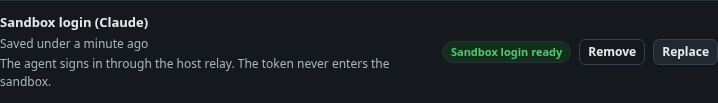
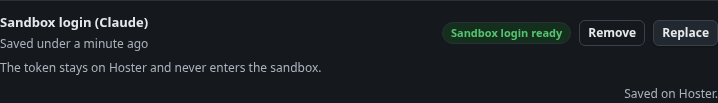
Review round (608a962..7696646): token field no longer a password-manager target, disabled Terminal tab unreachable by keys, one guard set per terminal, full token scan, Settings layout, mount race
U1: the setup-token field is a text input masked with -webkit-text-security (inline and in CSS),
autocomplete=off and the 1Password, LastPass, Bitwarden and form-type ignore attributes; type=password
with autocomplete=one-time-code only where the property is unsupported (Firefox 158 supports it).
U2: selectTab refuses the Terminal tab outside a finding folder; arrow keys skip it.
U3: makeTerm registers every listener with one AbortController, aborted in dispose.
U4: one tokenCapture helper scans request and response bodies and headers, console, page errors,
DOM, field values, storage and the URL, after Save, Replace and Remove.
U5: login pill in the row's controls, one-line hints, full-width note, toasts dismissed before shots;
screenshots regenerated.
Mount race: no shell attach until /api/mount answered for the current report; status reset on a
report change. Queued Play predates the branch (BUGFIXES.md).

diff --git a/static/modules/report-agent.js b/static/modules/report-agent.js
@@ -30,7 +30,8 @@
   const STATUS_TONE = {working: 'accent', blocked: 'warning', idle: '', done: 'success'};
   const NEEDS_LOGIN = 'Needs a sandbox login on Hoster';
   // Deploy step 1 of docs/integrations/report-agent.md, as one plain line.
-  const LOGIN_HINT = 'On Hoster, run claude setup-token, then save only the printed token in ~/.config/bounty-board/report-agent.token (mode 0600, outside the data root).';
+  const LOGIN_HINT = 'Run claude setup-token on Hoster and save the token in ~/.config/bounty-board/report-agent.token (0600).';
+  const LOGIN_HELP = "Run claude setup-token on Hoster and paste the token here. It is stored on Hoster only, readable by the Board's user.";
   const UNSAFE_TEXT = 'The text contains control or invisible characters. Remove them and try again.';
   const CONNECT_COPY = 'These are the agents\' real sessions on Hoster, outside any sandbox. What you type goes straight to the agent.';
 
@@ -709,7 +710,7 @@
         const save = h('button', {type: 'button', className: 'button sm primary', dataset: {agentSave: ''}, disabled: state.saving || !dirty || model === null, onclick: saveSettings}, state.saving ? 'Saving' : 'Save');
         parts.push(h('div', {className: 'set-row ra-set-row'},
           h('div', {className: 'set-text'}, h('span', {className: 'set-label', text: 'CLI and model'}),
-            h('p', {className: 'hint', text: 'Used for every report agent. Saved on the terminal service, so it applies on every device.'})),
+            h('p', {className: 'hint', text: 'Saved on Hoster, for every device.'})),
           h('div', {className: 'set-controls ra-set-controls'}, modelFields(state, quiet => { state.message = ''; if (quiet) paintSave(); else paint(); }, 'set-agent'), save)));
         parts.push(h('p', {className: `hint ra-set-msg${state.tone ? ` ${state.tone}` : ''}`, dataset: {agentSettingsMsg: ''}, role: 'status', 'aria-live': 'polite',
           text: state.message || (model === null ? 'Custom model ids use lowercase letters, digits, dots and dashes.' : '')}));
@@ -718,7 +719,7 @@
       const connectOn = status ? !!status.agent_connect : null;
       parts.push(h('div', {className: 'set-row'},
         h('div', {className: 'set-text'}, h('span', {className: 'set-label', text: connectOn === null ? 'Connect to running agents: unknown' : `Connect to running agents: ${connectOn ? 'on' : 'off'}`, dataset: {agentConnectFlag: connectOn === null ? 'unknown' : connectOn ? 'on' : 'off'}}),
-          h('p', {className: 'hint', text: 'A terminal service setting (--agent-connect), not changed here. When on, the Agent button lists agents running on Hoster.'}))));
+          h('p', {className: 'hint', text: 'Set by the --agent-connect service flag.'}))));
       host.replaceChildren(...parts);
     };
     // "Sandbox login (Claude)": saved on Hoster through POST /api/agent/login. The token
@@ -727,37 +728,52 @@
       const login = config.login || {};
       const pill = h('span', {className: `badge ${login.ready ? 'success' : 'warning'}`, dataset: {agentLogin: login.ready ? 'ready' : 'missing'},
         text: login.ready ? 'Sandbox login ready' : 'No sandbox login on Hoster yet'});
+      // Layout: label (and a short status line) left, pill and buttons right, like the other rows;
+      // the explanation is one full-width line under the row.
+      const row = (left, controls, note) => [
+        h('div', {className: 'set-row ra-login-row', dataset: {agentLoginRow: ''}},
+          h('div', {className: 'set-text'}, left), h('div', {className: 'set-controls ra-login-controls'}, controls)),
+        note];
       if (!login.editable) {
-        return [h('div', {className: 'set-row'},
-          h('div', {className: 'set-text'}, h('span', {className: 'set-label', text: 'Sandbox login'}),
-            login.ready ? h('p', {className: 'hint', text: 'The agent signs in through the host relay. The token never enters the sandbox.'}) : h('p', {className: 'hint', dataset: {agentLoginHint: ''}, text: LOGIN_HINT})),
-          pill)];
+        return [h('div', {className: 'ra-login', dataset: {agentLoginBlock: ''}}, ...row([h('span', {className: 'set-label', text: 'Sandbox login'})], [pill],
+          h('p', {className: 'hint ra-login-note', dataset: login.ready ? {} : {agentLoginHint: ''},
+            text: login.ready ? 'The token stays on Hoster and never enters the sandbox.' : LOGIN_HINT})))];
       }
-      const text = [h('span', {className: 'set-label', text: 'Sandbox login (Claude)'})];
-      let controls;
+      const left = [h('span', {className: 'set-label', text: 'Sandbox login (Claude)'})];
+      let controls, note;
       if (login.ready && !state.replacing) {
-        if (login.saved_at) text.push(h('p', {className: 'hint', dataset: {agentLoginSaved: ''}, text: `Saved ${ago(login.saved_at)}`}));
-        text.push(h('p', {className: 'hint', text: 'The agent signs in through the host relay. The token never enters the sandbox.'}));
+        if (login.saved_at) left.push(h('p', {className: 'hint', dataset: {agentLoginSaved: ''}, text: `Saved ${ago(login.saved_at)}`}));
+        note = h('p', {className: 'hint ra-login-note', text: 'The token stays on Hoster and never enters the sandbox.'});
         controls = [pill,
           h('button', {type: 'button', className: 'button sm subtle', dataset: {agentLoginAction: 'remove'}, disabled: state.loginBusy, onclick: removeLogin}, 'Remove'),
           h('button', {type: 'button', className: 'button sm', dataset: {agentLoginAction: 'replace'}, disabled: state.loginBusy,
             onclick: () => { state.replacing = true; state.loginMsg = ''; paint(); host.querySelector('input[name="set-agent-token"]')?.focus(); }}, 'Replace')];
       } else {
-        if (!state.replacing) text.push(h('div', {className: 'ra-login-status'}, pill));
-        text.push(h('p', {className: 'hint', dataset: {agentLoginHelp: ''}, text: 'Run claude setup-token on Hoster and paste the token here. It is stored on Hoster only, readable by the Board\'s user.'}));
-        const input = h('input', {type: 'password', name: 'set-agent-token', className: 'ra-token', autocomplete: 'off', spellcheck: 'false',
-          autocapitalize: 'off', placeholder: 'sk-ant-oat...', 'aria-label': 'Claude setup token', disabled: state.loginBusy,
-          onkeydown: event => { if (event.key === 'Enter') { event.preventDefault(); saveLogin(); } }});
-        input.spellcheck = false;
+        note = h('p', {className: 'hint ra-login-note', dataset: {agentLoginHelp: ''}, text: LOGIN_HELP});
         controls = [
-          state.replacing ? h('button', {type: 'button', className: 'button sm ghost', dataset: {agentLoginAction: 'cancel'}, onclick: () => { state.replacing = false; state.loginMsg = ''; paint(); }}, 'Cancel') : null,
-          input,
+          state.replacing ? h('button', {type: 'button', className: 'button sm ghost', dataset: {agentLoginAction: 'cancel'}, onclick: () => { state.replacing = false; state.loginMsg = ''; paint(); }}, 'Cancel') : pill,
+          tokenInput(),
           h('button', {type: 'button', className: 'button sm primary', dataset: {agentLoginAction: 'save'}, disabled: state.loginBusy, onclick: saveLogin}, state.loginBusy ? 'Saving' : 'Save')];
       }
       const problem = !login.ready && login.reason && login.reason !== 'missing' ? login.message : '';
-      return [h('div', {className: 'set-row ra-login-row', dataset: {agentLoginRow: ''}},
-        h('div', {className: 'set-text'}, text), h('div', {className: 'set-controls ra-login-controls'}, controls)),
-      h('p', {className: `hint ra-set-msg${state.loginTone ? ` ${state.loginTone}` : ''}`, dataset: {agentLoginMsg: ''}, role: 'status', 'aria-live': 'polite', text: state.loginMsg || problem || ''})];
+      return [h('div', {className: 'ra-login', dataset: {agentLoginBlock: ''}}, ...row(left, controls, note),
+        h('p', {className: `hint ra-set-msg${state.loginTone ? ` ${state.loginTone}` : ''}`, dataset: {agentLoginMsg: ''}, role: 'status', 'aria-live': 'polite', text: state.loginMsg || problem || ''}))];
+    }
+    // The token field (review U1). A formless <input type=password> that disappears after a fetch is
+    // what Chrome's password manager offers to save (it ignores autocomplete=off there), so the field
+    // is a text input masked by CSS, with every password manager's ignore attribute. Chromium, Safari
+    // and Firefox (checked: Firefox 158) support -webkit-text-security; where a browser does not, the
+    // value must still be hidden, so it falls back to type=password with autocomplete=one-time-code.
+    function tokenInput() {
+      const masked = !!window.CSS?.supports?.('-webkit-text-security', 'disc');
+      const input = h('input', {type: masked ? 'text' : 'password', name: 'set-agent-token', className: 'ra-token',
+        autocomplete: masked ? 'off' : 'one-time-code', spellcheck: 'false', autocapitalize: 'off', autocorrect: 'off',
+        'data-1p-ignore': '', 'data-lpignore': 'true', 'data-bwignore': '', 'data-form-type': 'other',
+        placeholder: 'sk-ant-oat...', 'aria-label': 'Claude setup token', disabled: state.loginBusy,
+        onkeydown: event => { if (event.key === 'Enter') { event.preventDefault(); saveLogin(); } }});
+      input.spellcheck = false;
+      if (masked) input.style.setProperty('-webkit-text-security', 'disc');   // masked even before the stylesheet applies
+      return input;
     }
     async function saveLogin() {
       const input = host.querySelector('input[name="set-agent-token"]');

diff --git a/static/modules/sandbox-terminal.js b/static/modules/sandbox-terminal.js
@@ -30,6 +30,10 @@
   // Result of /api/mount for this report: null while unknown (then the button stays usable),
   // {ok: false, message} for navigation pages and files outside a finding folder.
   let mount = null;
+  // True once /api/mount answered (or failed) for the current report. The shell never attaches
+  // before that, so a report outside a finding folder never gets an attach attempt and a late
+  // answer for an earlier report is ignored (loadMount checks the report key).
+  let mountKnown = false;
   const blocked = () => mount?.ok === false;
   // Drawer tabs (registerTab): id -> {id, label, title, closable, connect, onClose, handle, el, status, meta}.
   // The built-in shell tab is 'terminal' and is not in the map.
@@ -255,12 +259,15 @@
     t.loadAddon(f);
     t.open(screenEl);
     const say = text => { try { noteFn?.(text); } catch {} };
+    // Every listener below goes away with this terminal (review U3): one AbortController per
+    // terminal, aborted in dispose, so a tab re-created on reopen never stacks a second guard set.
+    const ac = new AbortController(), signal = ac.signal, capture = {capture: true, signal};
     t.attachCustomKeyEventHandler(termKeyHandler(t));
     if (onData) t.onData(onData);
     if (onResize) t.onResize(({cols, rows}) => onResize(cols, rows));
     // Copy on select: when a mouse selection (drag, double or triple click) ends.
     let selecting = false;
-    screenEl.addEventListener('mousedown', event => { if (event.button === 0) selecting = true; });
+    screenEl.addEventListener('mousedown', event => { if (event.button === 0) selecting = true; }, {signal});
     const onUp = event => {
       if (!selecting || event.button !== 0) return;
       selecting = false;
@@ -268,7 +275,7 @@
       // user activation still allows the clipboard write a moment later.
       setTimeout(() => { if (prefs.copyOnSelect && t.hasSelection()) copySelection(t, false); }, 0);
     };
-    document.addEventListener('mouseup', onUp);
+    document.addEventListener('mouseup', onUp, {signal});
     // Paste guard: every paste (keys, context menu, middle click) reaches
     // xterm's own listeners below this element, so a capture listener here sees
     // it first and stops unsafe text before xterm can send it.
@@ -277,7 +284,7 @@
       event.preventDefault();
       event.stopImmediatePropagation();
       say(PASTE_REFUSED);
-    }, true);
+    }, capture);
     // Text can also arrive as input events (phone keyboards' clipboard chips,
     // IME commits, drops), which xterm sends as they are, without bracketed
     // paste. Multi-character insertions that fail the filter or contain a
@@ -292,8 +299,8 @@
       if (event.type === 'input' && event.target?.value != null) event.target.value = '';
       say(unsafePaste(text) ? PASTE_REFUSED : MULTILINE_REFUSED);
     };
-    screenEl.addEventListener('beforeinput', guardInput, true);
-    screenEl.addEventListener('input', guardInput, true);
+    screenEl.addEventListener('beforeinput', guardInput, capture);
+    screenEl.addEventListener('input', guardInput, capture);
     // xterm also reads its textarea directly: on compositionend (IME and phone
     // keyboards commit text this way) and a moment after keyCode 229 keydowns.
     // Empty the textarea before that read whenever it would deliver unsafe or
@@ -305,8 +312,8 @@
       if (area) area.value = '';
       say(unsafePaste(bad) ? PASTE_REFUSED : MULTILINE_REFUSED);
     };
-    screenEl.addEventListener('compositionend', scrubArea, true);
-    screenEl.addEventListener('input', scrubArea, true);
+    screenEl.addEventListener('compositionend', scrubArea, capture);
+    screenEl.addEventListener('input', scrubArea, capture);
     // Fit only while visible: a hidden tab keeps its size until it shows again.
     const refitThis = () => { if (screenEl.isConnected && screenEl.offsetParent !== null && drawer && !drawer.hidden) { try { f.fit(); } catch {} } };
     const resizeObserver = new ResizeObserver(() => refitThis());
@@ -314,8 +321,8 @@
     const themeObserver = new MutationObserver(() => { t.options.theme = themeColors(); });
     themeObserver.observe(document.documentElement, {attributes: true, attributeFilter: ['data-theme']});
     const dispose = () => {
+      ac.abort();
       resizeObserver.disconnect(); themeObserver.disconnect();
-      document.removeEventListener('mouseup', onUp);
       try { t.dispose(); } catch {}
     };
     return {term: t, fit: f, refit: refitThis, dispose};
@@ -393,6 +400,7 @@
   async function connect() {
     clearTimeout(connectTimer); connectTimer = null;
     if (!sel || !prefs.open || !drawer || drawer.hidden || blocked()) return;
+    if (!mountKnown) { if (activeTab === 'terminal') setStatus('connecting'); return; }   // loadMount calls connect() again
     // The shell attaches once its tab is shown (a drawer opened on an Agent or
     // connect tab does not start a shell viewer until Terminal is picked).
     if (activeTab === 'terminal') shellWanted = true;
@@ -960,6 +968,7 @@
   }
   function selectTab(id) {
     if (id !== 'terminal' && !tabs.has(id)) return false;
+    if (id === 'terminal' && blocked()) return false;   // no shell outside a finding folder (review U2)
     activeTab = id;
     for (const tab of tabs.values()) if (tab.el) tab.el.hidden = tab.id !== id;
     if (id === 'terminal') connect(); else attachActiveTab();
@@ -1029,7 +1038,8 @@
   }
   function onTabKey(event) {
     if (!['ArrowLeft', 'ArrowRight', 'Home', 'End'].includes(event.key) || !event.target.matches('[data-term-tab-select]')) return;
-    const ids = ['terminal', ...tabs.keys()], i = ids.indexOf(activeTab);
+    const ids = [...(blocked() ? [] : ['terminal']), ...tabs.keys()], i = Math.max(0, ids.indexOf(activeTab));
+    if (!ids.length) return;
     const next = event.key === 'Home' ? 0 : event.key === 'End' ? ids.length - 1 : (i + (event.key === 'ArrowRight' ? 1 : -1) + ids.length) % ids.length;
     event.preventDefault();
     selectTab(ids[next]);
@@ -1236,7 +1246,9 @@
     try { result = await api(`api/mount?${query(sel)}`); } catch { result = null; }
     if (key !== selKey) return;
     mount = result;
+    mountKnown = true;
     applyMount();
+    if (!blocked() && drawer && !drawer.hidden) connect();
     schedule();
     emit('mount', mount ? {...mount} : null);
   }
@@ -1257,7 +1269,7 @@
       if (!observer) { observer = new MutationObserver(schedule); observer.observe(context.app, {childList: true, subtree: true, attributes: true, attributeFilter: ['class']}); }
       const key = keyOf(next);
       if (key !== selKey) {
-        sel = next; selKey = key; checks = {}; checksOk = false; info = null; pending = []; mount = null;
+        sel = next; selKey = key; checks = {}; checksOk = false; info = null; pending = []; mount = null; mountKnown = false; status = 'idle';
         disconnect(); clearTabs(); shellWanted = false; emitClosed(); retry = 0;
         if (term) term.reset();
         loadChecks();

diff --git a/static/modules/report-agent.css b/static/modules/report-agent.css
@@ -74,6 +74,13 @@
 }
 /* Sandbox login row: password field, then Save (rightmost). */
 .ra-login-controls{flex-wrap:wrap;justify-content:flex-end;max-width:520px}
-.ra-token{width:260px;max-width:100%;font-family:var(--font-mono);font-size:var(--text-sm)}
+.ra-token{width:230px;max-width:100%;font-family:var(--font-mono);font-size:var(--text-sm)}
+/* Masked by CSS, not type=password (review U1); the JS falls back to type=password where unsupported. */
+.ra-token[type="text"]{-webkit-text-security:disc}
+.ra-login-note{margin:-6px 0 var(--space-2)}
+.ra-login-controls{flex-wrap:nowrap}
 .ra-start-off{margin:var(--space-2) 0 0}
-.ra-login-status{margin:4px 0 2px}
+.ra-set-row .set-text{flex:0 0 220px}
+.ra-set-row .ra-set-controls{flex:1 1 0;min-width:0;max-width:none}
+.ra-set-row .ra-set-controls .ra-field{flex:1 1 150px;max-width:200px}
+.ra-login>.set-row{border-top:1px solid var(--border)}

diff --git a/BUGFIXES.md b/BUGFIXES.md
@@ -6,3 +6,4 @@
 - Open (seen on feat/board-recon-interactive, 2026-11-25): `static/tests/sandbox-terminal.synthetic.test.cjs` "drawer connects; play, Run and checks work…" failed once inside `npm test` (an expected list of six booleans came back empty) with the load average at 20 to 21; the same file alone passed 8/8 right after. Likely timing under load. Impact: an occasional red `npm test`; rerun the file alone before calling it a failure.
 - Open (seen on feat/board-recon-interactive, 2026-11-25, load average 11 to 16): timing-sensitive tests outside recon, each green when rerun alone: `tests/test_collaboration_process.py` "test_source_read_is_serialized_across_two_servers" ("server did not start" within its 10 s poll; module alone 3/3), `static/tests/ui-redesign.synthetic.test.cjs` "multi-select filters, chips, persisted sort and row actions" (8 s locator timeout; also seen by review 10 on 4b40c2b; file alone 7/7) and the live-editor Syncthing test above (file alone green). Impact: occasional red full-suite runs under load.
 - Open (seen on feat/board-scope-panel, 2026-11-26, load average 6 to 7): `static/tests/artifact-uploads.synthetic.test.cjs` "upload button, picker upload with rename, drag and drop, progress, cancel, precheck" failed in `npm test` and once more when its file ran alone: after a cancelled upload, the staged `.syncthing.board-<id>.tmp` was still in the lane 1.5 s later (`staged(lane)` not empty, line 154). Run by name right after, it passed. The server may remove the staged file only when the aborted request body times out, which takes longer under load. `artifact_uploads.py` is unchanged on this branch. Impact: an occasional red `npm test`; a cancelled upload can leave a hidden temp file in a synced lane for a while (check whether it is always removed eventually).
+- Open (seen on feat/board-report-agent-ui review round, 2026-11-26; predates this branch, present on `18089f4` and `49c76c9`): a queued Play or Run can fire after the user closed the drawer. `static/modules/sandbox-terminal.js` `typeText()` pushes the action onto `pending` when the shell is not connected yet (`18089f4` line 339) and the next `hello` runs every queued action (line 175). `pending` is cleared only on a report change, not when the drawer closes (`showDrawer(false)` only disconnects, lines 259-265). So: click Play while the drawer is still connecting, close the drawer, reopen it minutes later, and the old block is typed (Run also presses Enter) into the shell. Impact: an unexpected command in the sandbox shell of the same report; bounded by the per-report sandbox, but surprising. Fix candidate: clear `pending` in `showDrawer(false)` and on a WebSocket close, and only run actions queued within a few seconds of the hello. Not fixed on this branch (scope: report agent UI).
